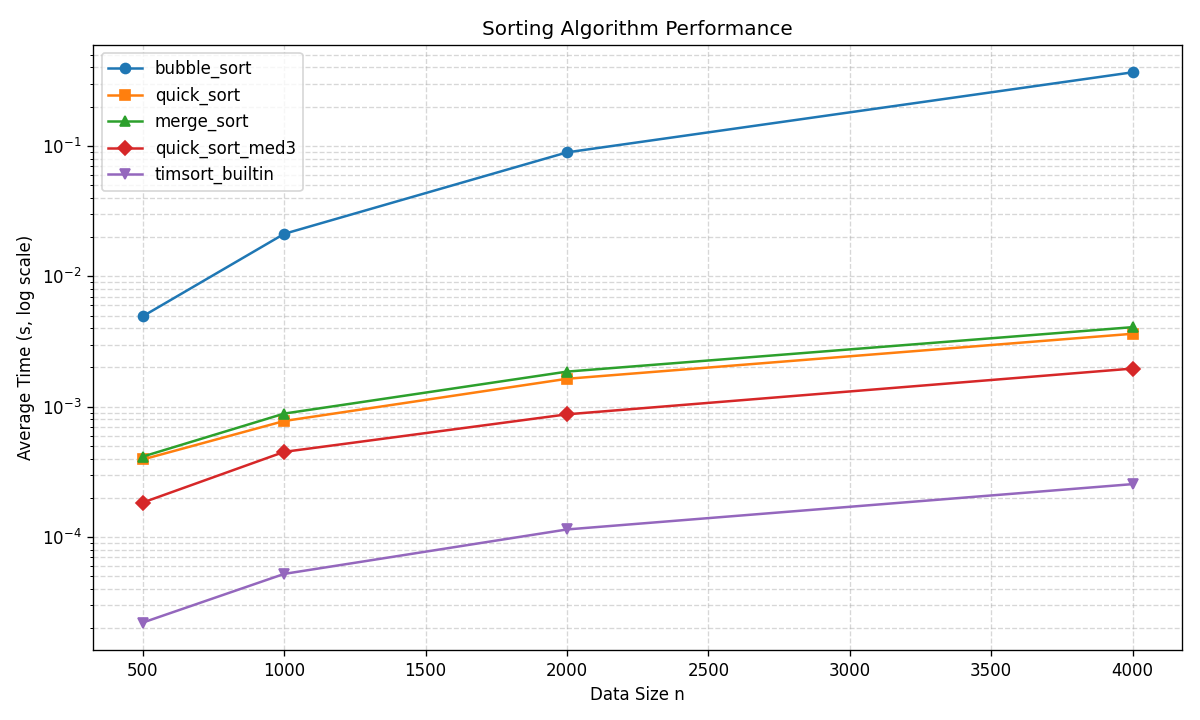
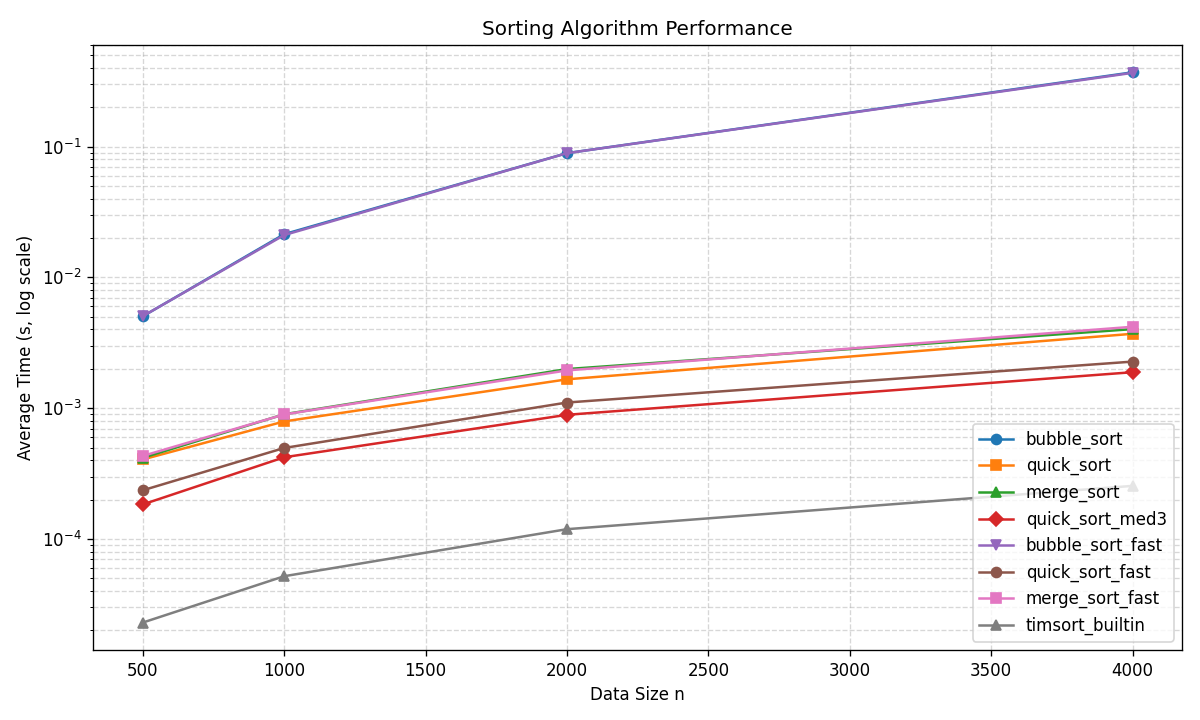
feat: stage3 新增 sorts_fast.py 獨立優化版與更新量測數據

diff --git a/weeks/week-16/solutions/1114405055/0611/sorts_fast.py b/weeks/week-16/solutions/1114405055/0611/sorts_fast.py
@@ -1,0 +1,90 @@
+"""Stage 3 — 三種排序的獨立優化版本
+
+策略：
+  bubble_sort_fast  — 早停機制（early stop）
+  quick_sort_fast   — 中間元素 pivot，避免已排序退化
+  merge_sort_fast   — 迭代式 bottom-up merge，消除遞迴堆疊開銷
+"""
+
+
+def bubble_sort_fast(data: list) -> list:
+    """早停 bubble sort：某趟若無交換則已排好，立即結束"""
+    result = list(data)
+    n = len(result)
+    for i in range(n):
+        swapped = False
+        for j in range(0, n - i - 1):
+            if result[j] > result[j + 1]:
+                result[j], result[j + 1] = result[j + 1], result[j]
+                swapped = True
+        if not swapped:
+            break
+    return result
+
+
+def _partition_mid(arr: list, lo: int, hi: int) -> int:
+    """以中間元素為 pivot 進行 in-place partition，回傳 pivot 最終位置"""
+    mid = (lo + hi) // 2
+    arr[mid], arr[hi] = arr[hi], arr[mid]  # 把 pivot 移到末尾
+    pivot = arr[hi]
+    i = lo - 1
+    for j in range(lo, hi):
+        if arr[j] <= pivot:
+            i += 1
+            arr[i], arr[j] = arr[j], arr[i]
+    arr[i + 1], arr[hi] = arr[hi], arr[i + 1]
+    return i + 1
+
+
+def _quick_sort_fast_helper(arr: list, lo: int, hi: int) -> None:
+    if lo < hi:
+        p = _partition_mid(arr, lo, hi)
+        _quick_sort_fast_helper(arr, lo, p - 1)
+        _quick_sort_fast_helper(arr, p + 1, hi)
+
+
+def quick_sort_fast(data: list) -> list:
+    """中間 pivot quick sort，減少已排序資料退化到 O(n²) 的機率"""
+    result = list(data)
+    if len(result) > 1:
+        _quick_sort_fast_helper(result, 0, len(result) - 1)
+    return result
+
+
+def _merge_inplace(arr: list, lo: int, mid: int, hi: int) -> None:
+    """合併兩段已排序子陣列 arr[lo:mid+1] 與 arr[mid+1:hi+1]"""
+    left = arr[lo:mid + 1]
+    right = arr[mid + 1:hi + 1]
+    i = j = 0
+    k = lo
+    while i < len(left) and j < len(right):
+        if left[i] <= right[j]:
+            arr[k] = left[i]
+            i += 1
+        else:
+            arr[k] = right[j]
+            j += 1
+        k += 1
+    while i < len(left):
+        arr[k] = left[i]
+        i += 1
+        k += 1
+    while j < len(right):
+        arr[k] = right[j]
+        j += 1
+        k += 1
+
+
+def merge_sort_fast(data: list) -> list:
+    """迭代式 bottom-up merge sort，消除遞迴呼叫的堆疊開銷"""
+    result = list(data)
+    n = len(result)
+    width = 1
+    while width < n:
+        for lo in range(0, n, width * 2):
+            mid = min(lo + width - 1, n - 1)
+            hi = min(lo + width * 2 - 1, n - 1)
+            if mid < hi:
+                _merge_inplace(result, lo, mid, hi)
+        width *= 2
+    return result

diff --git a/weeks/week-16/solutions/1114405055/0611/benchmark.py b/weeks/week-16/solutions/1114405055/0611/benchmark.py
@@ -8,36 +8,41 @@ import json
 import random
 
 from sorts import bubble_sort, merge_sort, quick_sort, quick_sort_med3
+from sorts_fast import bubble_sort_fast, merge_sort_fast, quick_sort_fast
 from timing import timeit
 
 
 def make_data(n: int, seed: int = 42) -> list:
     """產生固定亂數序列，seed 固定以確保實驗可重現"""
     if n < 0:
-        raise ValueError("n 必須 >= 0")
+        raise ValueError(f"n 必須 >= 0，got {n}")
     rng = random.Random(seed)
-    return [rng.randint(0, n * 10) for _ in range(n)]
+    return [rng.randint(0, max(n * 10, 1)) for _ in range(n)]
 
 
 def run_benchmark(sizes=(500, 1000, 2000, 4000), repeats=3) -> dict:
     """對各排序演算法量測平均耗時，回傳 {algo_name: {str(n): avg_sec}}"""
     algos = {
-        "bubble_sort": timeit(bubble_sort),
-        "quick_sort": timeit(quick_sort),
-        "merge_sort": timeit(merge_sort),
-        "quick_sort_med3": timeit(quick_sort_med3),
-        "timsort_builtin": timeit(sorted),
+        "bubble_sort":      bubble_sort,
+        "quick_sort":       quick_sort,
+        "merge_sort":       merge_sort,
+        "quick_sort_med3":  quick_sort_med3,
+        "bubble_sort_fast": bubble_sort_fast,
+        "quick_sort_fast":  quick_sort_fast,
+        "merge_sort_fast":  merge_sort_fast,
+        "timsort_builtin":  sorted,
     }
     results: dict = {name: {} for name in algos}
 
     for n in sizes:
         for name, fn in algos.items():
+            timed_fn = timeit(fn)
             times = []
             for _ in range(repeats):
                 data = make_data(n)
-                fn(data)
-                times.append(fn.last_elapsed)
-            results[name][str(n)] = sum(times) / len(times)
+                timed_fn(data)
+                times.append(timed_fn.last_elapsed)
+            results[name][str(n)] = round(sum(times) / len(times), 6)
 
     return results
 
@@ -45,12 +50,14 @@ def run_benchmark(sizes=(500, 1000, 2000, 4000), repeats=3) -> dict:
 def _print_table(results: dict) -> None:
     algos = list(results.keys())
     sizes = list(next(iter(results.values())).keys())
-    col = 18
-    header = f"{'n':>6}" + "".join(f"{a:>{col}}" for a in algos)
+    col = 16
+    header = f"{'n':>6} | " + " | ".join(f"{a:{col}}" for a in algos)
     print(header)
     print("-" * len(header))
     for n in sizes:
-        row = f"{n:>6}" + "".join(f"{results[a][n]:>{col}.6f}" for a in algos)
+        row = f"{n:>6} | " + " | ".join(
+            f"{results[a][n]:{col}.6f}" for a in algos
+        )
         print(row)
 
 